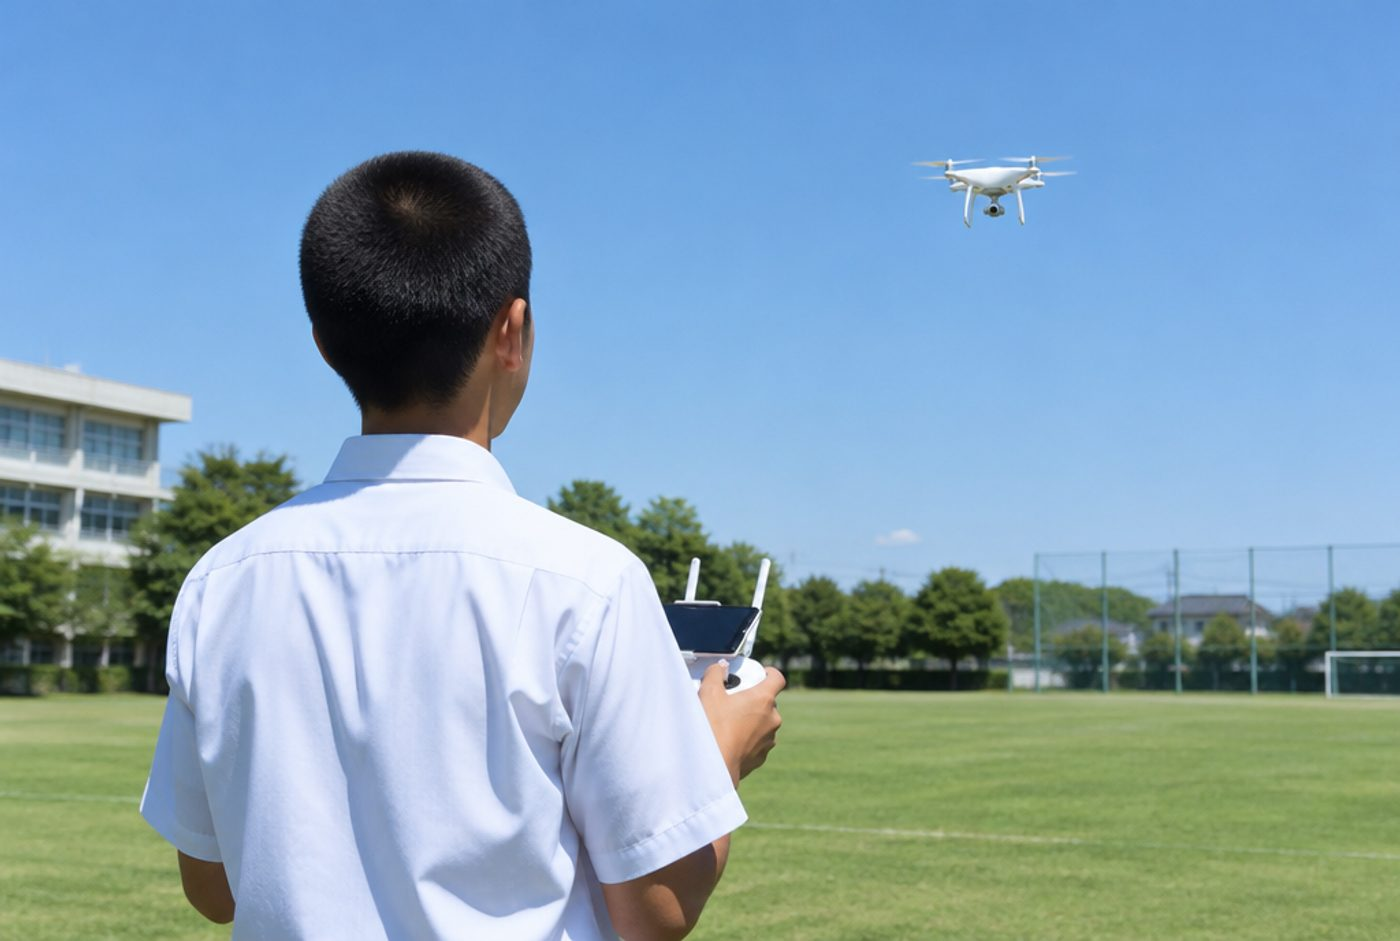
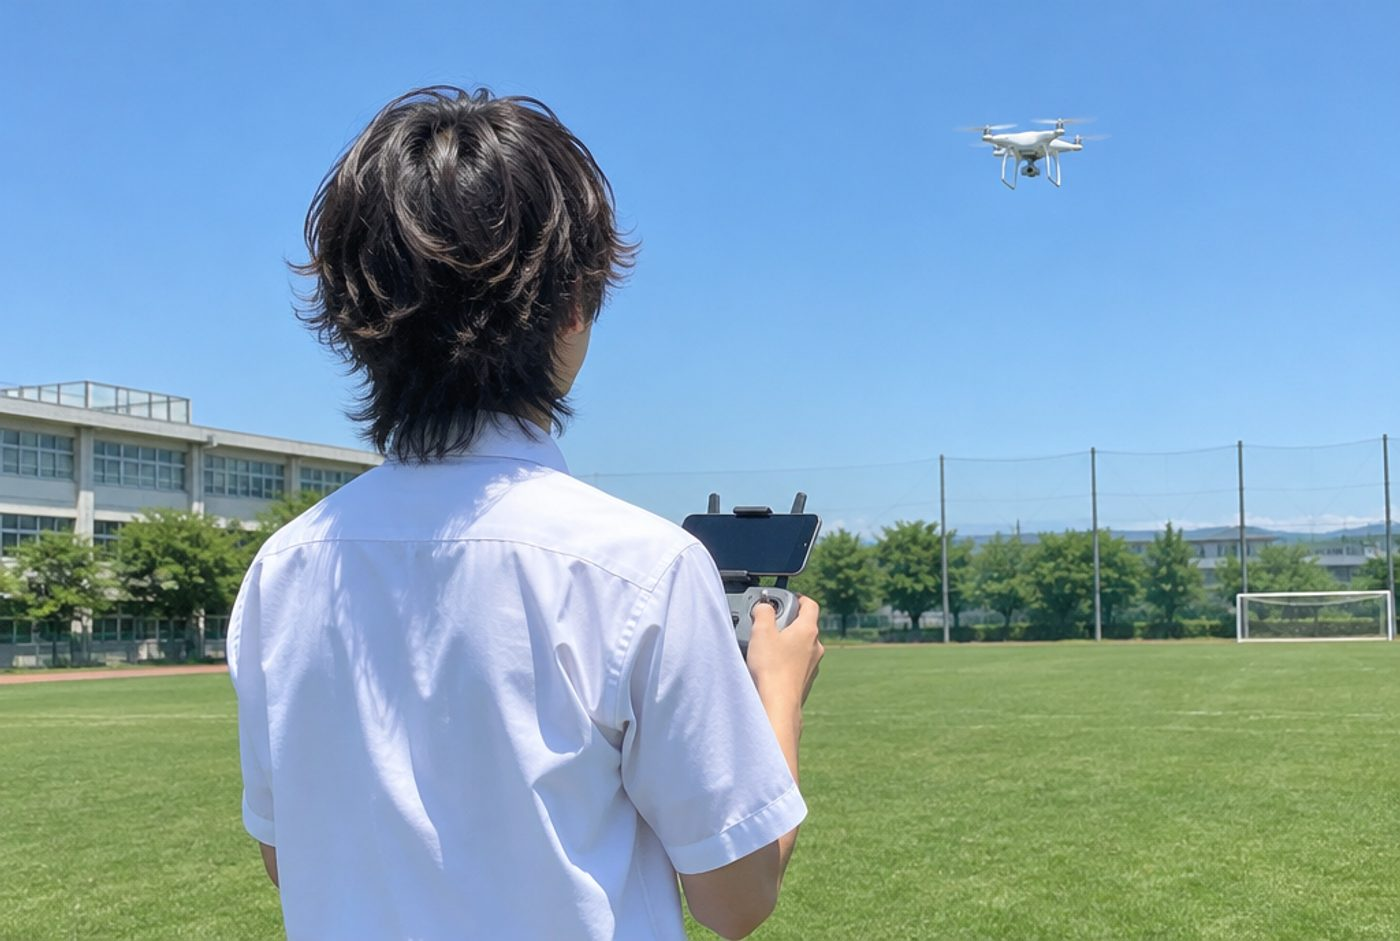
ドローン・メタバースの男子を今どきの髪型（ウルフ・マッシュ）に差し替え

diff --git a/index.html b/index.html
@@ -12,7 +12,7 @@
 <link rel="preconnect" href="https://fonts.gstatic.com" crossorigin>
 <link rel="stylesheet" href="https://fonts.googleapis.com/css2?family=Noto+Sans+JP:wght@400;500;700&family=Quicksand:wght@500;600;700&display=swap">
 <link rel="stylesheet" href="https://cdnjs.cloudflare.com/ajax/libs/font-awesome/6.5.2/css/all.min.css">
-<link rel="stylesheet" href="assets/css/style.css?v=202610280827">
+<link rel="stylesheet" href="assets/css/style.css?v=202610280831">
 </head>
 <body id="top" class="home">
 
@@ -56,9 +56,9 @@
 <!-- ===== ヒーロー ===== -->
 <section class="hero" id="hero">
 	<div class="hero-bg">
-		<img src="assets/img/hero_poster.jpg?v=202610280827" alt="" class="hero-still">
-		<video id="heroVideo" class="hero-video" autoplay muted loop playsinline preload="auto" poster="assets/img/hero_poster.jpg?v=202610280827" aria-hidden="true">
-			<source src="assets/img/hero_video.mp4?v=202610280827" type="video/mp4">
+		<img src="assets/img/hero_poster.jpg?v=202610280831" alt="" class="hero-still">
+		<video id="heroVideo" class="hero-video" autoplay muted loop playsinline preload="auto" poster="assets/img/hero_poster.jpg?v=202610280831" aria-hidden="true">
+			<source src="assets/img/hero_video.mp4?v=202610280831" type="video/mp4">
 		</video>
 	</div>
 	<div class="hero-inner" id="heroInner">
@@ -168,7 +168,7 @@
 		</div>
 		<div class="course-visual">
 			<div class="cv-stage">
-				<img src="assets/img/course_tools.jpg?v=202610280827" alt="ドローン・VR・マイク・タブレット・カメラ・鍵盤など、コースで使う道具">
+				<img src="assets/img/course_tools.jpg?v=202610280831" alt="ドローン・VR・マイク・タブレット・カメラ・鍵盤など、コースで使う道具">
 				<svg class="cv-label" viewBox="0 0 1344 390" aria-hidden="true">
 					<defs>
 						<linearGradient id="cvScreen" x1="0" y1="0" x2="0.3" y2="1"><stop offset="0" stop-color="#232596"/><stop offset="1" stop-color="#0B0D3F"/></linearGradient>
@@ -216,7 +216,7 @@
 		</div>
 
 		<div class="split">
-			<div class="split-img"><img src="assets/img/classroom.jpg?v=202610280827" alt="教室で授業を受ける生徒たち"></div>
+			<div class="split-img"><img src="assets/img/classroom.jpg?v=202610280831" alt="教室で授業を受ける生徒たち"></div>
 			<div class="split-txt">
 				<h3>ハイブリッド授業</h3>
 				<p>プロ講師の授業をオンラインで各校舎に配信し、教室には学校の先生が立ち会います。講師が教室を訪れる対面の回を組み合わせることで、画面越しだけでは得られない体験も残します。授業は録画してアーカイブにし、欠席した生徒の学び直しにも使えます。</p>
@@ -224,7 +224,7 @@
 		</div>
 
 		<div class="split rev">
-			<div class="split-img"><img src="assets/img/tablet.jpg?v=202610280827" alt="タブレットで学ぶ"></div>
+			<div class="split-img"><img src="assets/img/tablet.jpg?v=202610280831" alt="タブレットで学ぶ"></div>
 			<div class="split-txt">
 				<h3>3つの独自システム</h3>
 				<dl class="sys-list">
@@ -255,7 +255,7 @@
 			<p class="lead">あなたの専門を、全国の高校生へ。<br class="pc">教えること以外は、METAアカデミーが引き受けます。</p>
 		</div>
 		<div class="split">
-			<div class="split-img"><img src="assets/img/lecturer.jpg?v=202610280827" alt="オンラインで授業を配信する講師"></div>
+			<div class="split-img"><img src="assets/img/lecturer.jpg?v=202610280831" alt="オンラインで授業を配信する講師"></div>
 			<div class="split-txt">
 				<ul class="check-list">
 					<li><strong>授業に集中できる</strong><span>学校との調整・契約・請求・生徒への連絡は、すべてMETAが代行します。</span></li>
@@ -399,6 +399,6 @@
 </footer>
 
 <a href="#top" class="to-top" id="toTop" aria-label="ページの先頭へ"><i class="fa-solid fa-chevron-up"></i></a>
-<script src="assets/js/main.js?v=202610280827"></script>
+<script src="assets/js/main.js?v=202610280831"></script>
 </body>
 </html>

diff --git a/course-media.html b/course-media.html
@@ -12,7 +12,7 @@
 <link rel="preconnect" href="https://fonts.gstatic.com" crossorigin>
 <link rel="stylesheet" href="https://fonts.googleapis.com/css2?family=Noto+Sans+JP:wght@400;500;700&family=Quicksand:wght@500;600;700&display=swap">
 <link rel="stylesheet" href="https://cdnjs.cloudflare.com/ajax/libs/font-awesome/6.5.2/css/all.min.css">
-<link rel="stylesheet" href="assets/css/style.css?v=202610280827">
+<link rel="stylesheet" href="assets/css/style.css?v=202610280831">
 </head>
 <body id="top" class="sub">
 
@@ -67,7 +67,7 @@
 					<a href="index.html#student" class="btn btn-outline"><i class="fa-solid fa-user-graduate"></i>生徒・保護者の方へ</a>
 				</div>
 			</div>
-			<div class="ph-img"><img src="assets/img/course-media.jpg?v=202610280827" alt="メディアクリエイターコースのイメージ"></div>
+			<div class="ph-img"><img src="assets/img/course-media.jpg?v=202610280831" alt="メディアクリエイターコースのイメージ"></div>
 		</div>
 	</div>
 </section>
@@ -191,6 +191,6 @@
 </footer>
 
 <a href="index.html#top" class="to-top" id="toTop" aria-label="ページの先頭へ"><i class="fa-solid fa-chevron-up"></i></a>
-<script src="assets/js/main.js?v=202610280827"></script>
+<script src="assets/js/main.js?v=202610280831"></script>
 </body>
 </html>

diff --git a/course-metaverse.html b/course-metaverse.html
@@ -12,7 +12,7 @@
 <link rel="preconnect" href="https://fonts.gstatic.com" crossorigin>
 <link rel="stylesheet" href="https://fonts.googleapis.com/css2?family=Noto+Sans+JP:wght@400;500;700&family=Quicksand:wght@500;600;700&display=swap">
 <link rel="stylesheet" href="https://cdnjs.cloudflare.com/ajax/libs/font-awesome/6.5.2/css/all.min.css">
-<link rel="stylesheet" href="assets/css/style.css?v=202610280827">
+<link rel="stylesheet" href="assets/css/style.css?v=202610280831">
 </head>
 <body id="top" class="sub">
 
@@ -67,7 +67,7 @@
 					<a href="index.html#student" class="btn btn-outline"><i class="fa-solid fa-user-graduate"></i>生徒・保護者の方へ</a>
 				</div>
 			</div>
-			<div class="ph-img"><img src="assets/img/course-metaverse.jpg?v=202610280827" alt="メタバース・VR・ARコースのイメージ"></div>
+			<div class="ph-img"><img src="assets/img/course-metaverse.jpg?v=202610280831" alt="メタバース・VR・ARコースのイメージ"></div>
 		</div>
 	</div>
 </section>
@@ -190,6 +190,6 @@
 </footer>
 
 <a href="index.html#top" class="to-top" id="toTop" aria-label="ページの先頭へ"><i class="fa-solid fa-chevron-up"></i></a>
-<script src="assets/js/main.js?v=202610280827"></script>
+<script src="assets/js/main.js?v=202610280831"></script>
 </body>
 </html>

diff --git a/course-business.html b/course-business.html
@@ -12,7 +12,7 @@
 <link rel="preconnect" href="https://fonts.gstatic.com" crossorigin>
 <link rel="stylesheet" href="https://fonts.googleapis.com/css2?family=Noto+Sans+JP:wght@400;500;700&family=Quicksand:wght@500;600;700&display=swap">
 <link rel="stylesheet" href="https://cdnjs.cloudflare.com/ajax/libs/font-awesome/6.5.2/css/all.min.css">
-<link rel="stylesheet" href="assets/css/style.css?v=202610280827">
+<link rel="stylesheet" href="assets/css/style.css?v=202610280831">
 </head>
 <body id="top" class="sub">
 
@@ -67,7 +67,7 @@
 					<a href="index.html#student" class="btn btn-outline"><i class="fa-solid fa-user-graduate"></i>生徒・保護者の方へ</a>
 				</div>
 			</div>
-			<div class="ph-img"><img src="assets/img/course-business.jpg?v=202610280827" alt="ビジネス・起業コースのイメージ"></div>
+			<div class="ph-img"><img src="assets/img/course-business.jpg?v=202610280831" alt="ビジネス・起業コースのイメージ"></div>
 		</div>
 	</div>
 </section>
@@ -191,6 +191,6 @@
 </footer>
 
 <a href="index.html#top" class="to-top" id="toTop" aria-label="ページの先頭へ"><i class="fa-solid fa-chevron-up"></i></a>
-<script src="assets/js/main.js?v=202610280827"></script>
+<script src="assets/js/main.js?v=202610280831"></script>
 </body>
 </html>

diff --git a/course-sns.html b/course-sns.html
@@ -12,7 +12,7 @@
 <link rel="preconnect" href="https://fonts.gstatic.com" crossorigin>
 <link rel="stylesheet" href="https://fonts.googleapis.com/css2?family=Noto+Sans+JP:wght@400;500;700&family=Quicksand:wght@500;600;700&display=swap">
 <link rel="stylesheet" href="https://cdnjs.cloudflare.com/ajax/libs/font-awesome/6.5.2/css/all.min.css">
-<link rel="stylesheet" href="assets/css/style.css?v=202610280827">
+<link rel="stylesheet" href="assets/css/style.css?v=202610280831">
 </head>
 <body id="top" class="sub">
 
@@ -67,7 +67,7 @@
 					<a href="index.html#student" class="btn btn-outline"><i class="fa-solid fa-user-graduate"></i>生徒・保護者の方へ</a>
 				</div>
 			</div>
-			<div class="ph-img"><img src="assets/img/course-sns.jpg?v=202610280827" alt="SNSマーケティングコースのイメージ"></div>
+			<div class="ph-img"><img src="assets/img/course-sns.jpg?v=202610280831" alt="SNSマーケティングコースのイメージ"></div>
 		</div>
 	</div>
 </section>
@@ -191,6 +191,6 @@
 </footer>
 
 <a href="index.html#top" class="to-top" id="toTop" aria-label="ページの先頭へ"><i class="fa-solid fa-chevron-up"></i></a>
-<script src="assets/js/main.js?v=202610280827"></script>
+<script src="assets/js/main.js?v=202610280831"></script>
 </body>
 </html>

diff --git a/course-dtm.html b/course-dtm.html
@@ -12,7 +12,7 @@
 <link rel="preconnect" href="https://fonts.gstatic.com" crossorigin>
 <link rel="stylesheet" href="https://fonts.googleapis.com/css2?family=Noto+Sans+JP:wght@400;500;700&family=Quicksand:wght@500;600;700&display=swap">
 <link rel="stylesheet" href="https://cdnjs.cloudflare.com/ajax/libs/font-awesome/6.5.2/css/all.min.css">
-<link rel="stylesheet" href="assets/css/style.css?v=202610280827">
+<link rel="stylesheet" href="assets/css/style.css?v=202610280831">
 </head>
 <body id="top" class="sub">
 
@@ -67,7 +67,7 @@
 					<a href="index.html#student" class="btn btn-outline"><i class="fa-solid fa-user-graduate"></i>生徒・保護者の方へ</a>
 				</div>
 			</div>
-			<div class="ph-img"><img src="assets/img/course-dtm.jpg?v=202610280827" alt="DTM（音楽制作）コースのイメージ"></div>
+			<div class="ph-img"><img src="assets/img/course-dtm.jpg?v=202610280831" alt="DTM（音楽制作）コースのイメージ"></div>
 		</div>
 	</div>
 </section>
@@ -191,6 +191,6 @@
 </footer>
 
 <a href="index.html#top" class="to-top" id="toTop" aria-label="ページの先頭へ"><i class="fa-solid fa-chevron-up"></i></a>
-<script src="assets/js/main.js?v=202610280827"></script>
+<script src="assets/js/main.js?v=202610280831"></script>
 </body>
 </html>

diff --git a/course-esports.html b/course-esports.html
@@ -12,7 +12,7 @@
 <link rel="preconnect" href="https://fonts.gstatic.com" crossorigin>
 <link rel="stylesheet" href="https://fonts.googleapis.com/css2?family=Noto+Sans+JP:wght@400;500;700&family=Quicksand:wght@500;600;700&display=swap">
 <link rel="stylesheet" href="https://cdnjs.cloudflare.com/ajax/libs/font-awesome/6.5.2/css/all.min.css">
-<link rel="stylesheet" href="assets/css/style.css?v=202610280827">
+<link rel="stylesheet" href="assets/css/style.css?v=202610280831">
 </head>
 <body id="top" class="sub">
 
@@ -67,7 +67,7 @@
 					<a href="index.html#student" class="btn btn-outline"><i class="fa-solid fa-user-graduate"></i>生徒・保護者の方へ</a>
 				</div>
 			</div>
-			<div class="ph-img"><img src="assets/img/course-esports.jpg?v=202610280827" alt="eスポーツコースのイメージ"></div>
+			<div class="ph-img"><img src="assets/img/course-esports.jpg?v=202610280831" alt="eスポーツコースのイメージ"></div>
 		</div>
 	</div>
 </section>
@@ -191,6 +191,6 @@
 </footer>
 
 <a href="index.html#top" class="to-top" id="toTop" aria-label="ページの先頭へ"><i class="fa-solid fa-chevron-up"></i></a>
-<script src="assets/js/main.js?v=202610280827"></script>
+<script src="assets/js/main.js?v=202610280831"></script>
 </body>
 </html>

diff --git a/course-drone.html b/course-drone.html
@@ -12,7 +12,7 @@
 <link rel="preconnect" href="https://fonts.gstatic.com" crossorigin>
 <link rel="stylesheet" href="https://fonts.googleapis.com/css2?family=Noto+Sans+JP:wght@400;500;700&family=Quicksand:wght@500;600;700&display=swap">
 <link rel="stylesheet" href="https://cdnjs.cloudflare.com/ajax/libs/font-awesome/6.5.2/css/all.min.css">
-<link rel="stylesheet" href="assets/css/style.css?v=202610280827">
+<link rel="stylesheet" href="assets/css/style.css?v=202610280831">
 </head>
 <body id="top" class="sub">
 
@@ -67,7 +67,7 @@
 					<a href="index.html#student" class="btn btn-outline"><i class="fa-solid fa-user-graduate"></i>生徒・保護者の方へ</a>
 				</div>
 			</div>
-			<div class="ph-img"><img src="assets/img/course-drone.jpg?v=202610280827" alt="ドローンコースのイメージ"></div>
+			<div class="ph-img"><img src="assets/img/course-drone.jpg?v=202610280831" alt="ドローンコースのイメージ"></div>
 		</div>
 	</div>
 </section>
@@ -190,6 +190,6 @@
 </footer>
 
 <a href="index.html#top" class="to-top" id="toTop" aria-label="ページの先頭へ"><i class="fa-solid fa-chevron-up"></i></a>
-<script src="assets/js/main.js?v=202610280827"></script>
+<script src="assets/js/main.js?v=202610280831"></script>
 </body>
 </html>

diff --git a/course-ai.html b/course-ai.html
@@ -12,7 +12,7 @@
 <link rel="preconnect" href="https://fonts.gstatic.com" crossorigin>
 <link rel="stylesheet" href="https://fonts.googleapis.com/css2?family=Noto+Sans+JP:wght@400;500;700&family=Quicksand:wght@500;600;700&display=swap">
 <link rel="stylesheet" href="https://cdnjs.cloudflare.com/ajax/libs/font-awesome/6.5.2/css/all.min.css">
-<link rel="stylesheet" href="assets/css/style.css?v=202610280827">
+<link rel="stylesheet" href="assets/css/style.css?v=202610280831">
 </head>
 <body id="top" class="sub">
 
@@ -67,7 +67,7 @@
 					<a href="index.html#student" class="btn btn-outline"><i class="fa-solid fa-user-graduate"></i>生徒・保護者の方へ</a>
 				</div>
 			</div>
-			<div class="ph-img"><img src="assets/img/course-ai.jpg?v=202610280827" alt="生成AI習得コースのイメージ"></div>
+			<div class="ph-img"><img src="assets/img/course-ai.jpg?v=202610280831" alt="生成AI習得コースのイメージ"></div>
 		</div>
 	</div>
 </section>
@@ -191,6 +191,6 @@
 </footer>
 
 <a href="index.html#top" class="to-top" id="toTop" aria-label="ページの先頭へ"><i class="fa-solid fa-chevron-up"></i></a>
-<script src="assets/js/main.js?v=202610280827"></script>
+<script src="assets/js/main.js?v=202610280831"></script>
 </body>
 </html>

diff --git a/course-voice.html b/course-voice.html
@@ -12,7 +12,7 @@
 <link rel="preconnect" href="https://fonts.gstatic.com" crossorigin>
 <link rel="stylesheet" href="https://fonts.googleapis.com/css2?family=Noto+Sans+JP:wght@400;500;700&family=Quicksand:wght@500;600;700&display=swap">
 <link rel="stylesheet" href="https://cdnjs.cloudflare.com/ajax/libs/font-awesome/6.5.2/css/all.min.css">
-<link rel="stylesheet" href="assets/css/style.css?v=202610280827">
+<link rel="stylesheet" href="assets/css/style.css?v=202610280831">
 </head>
 <body id="top" class="sub">
 
@@ -67,7 +67,7 @@
 					<a href="index.html#student" class="btn btn-outline"><i class="fa-solid fa-user-graduate"></i>生徒・保護者の方へ</a>
 				</div>
 			</div>
-			<div class="ph-img"><img src="assets/img/course-voice.jpg?v=202610280827" alt="声優コースのイメージ"></div>
+			<div class="ph-img"><img src="assets/img/course-voice.jpg?v=202610280831" alt="声優コースのイメージ"></div>
 		</div>
 	</div>
 </section>
@@ -191,6 +191,6 @@
 </footer>
 
 <a href="index.html#top" class="to-top" id="toTop" aria-label="ページの先頭へ"><i class="fa-solid fa-chevron-up"></i></a>
-<script src="assets/js/main.js?v=202610280827"></script>
+<script src="assets/js/main.js?v=202610280831"></script>
 </body>
 </html>
